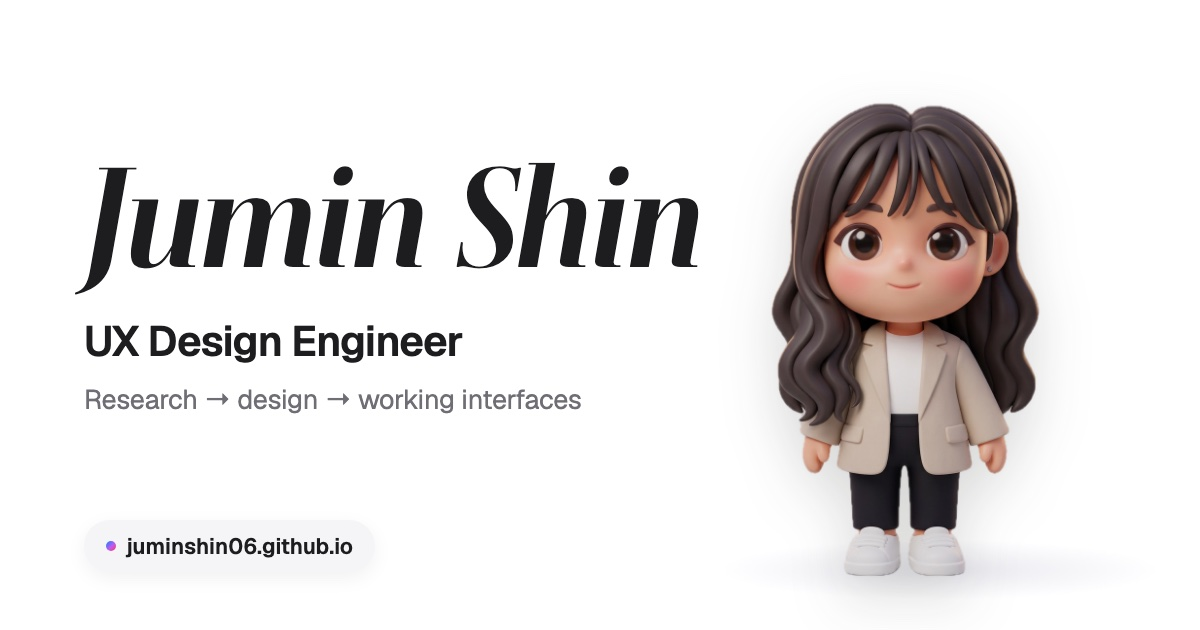
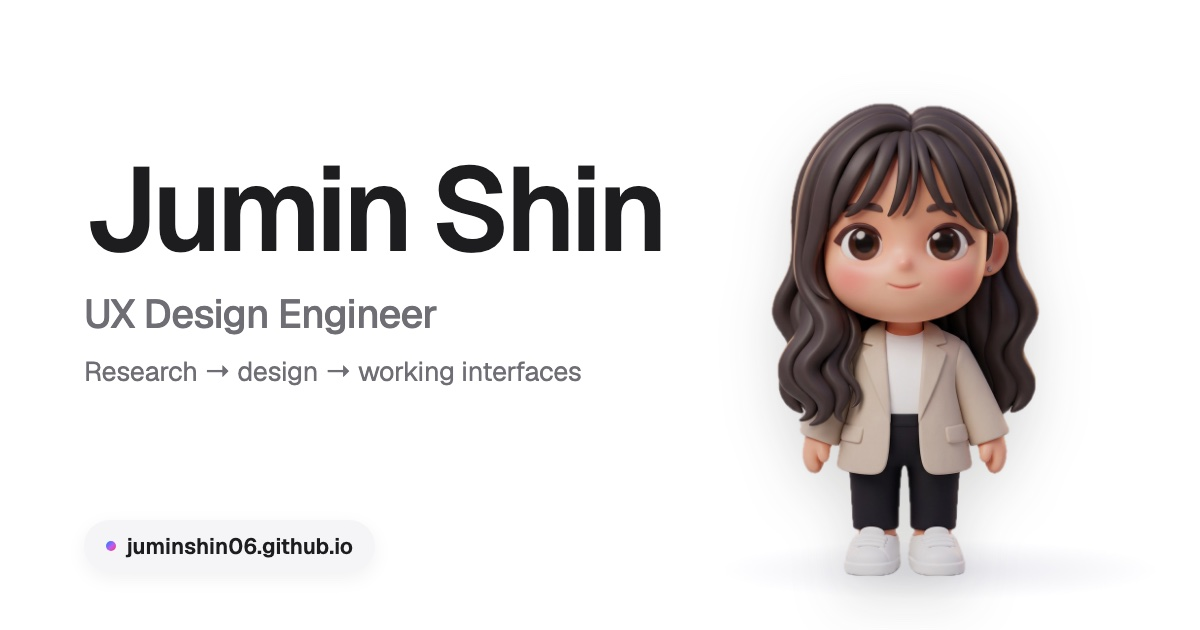
style: hero name in the system display sans
The name now uses SF Pro Display / Geist in semibold, not italic, scaling
from 44px on phones to 88px, so it shares one voice with the rest of the
page and leaves the prompt as the focus. The share card matches, and the
unused Boska font is removed.

Changed region(s): [[0.0617, 0.2413, 0.5858, 0.6635]]

diff --git a/src/portfolio/Portfolio.module.css b/src/portfolio/Portfolio.module.css
@@ -2209,11 +2209,10 @@
 .introLinks { margin-top: 28px; }
 @media (width <= 600px) { .introLinks { margin-top: 24px; } }
 
-/* Hero name: Boska Bold Italic in near-black, so the prompt's gradient ring is the one accent. */
-.introContent h1 { font-family: 'Boska', 'Times New Roman', serif; font-style: italic; font-weight: 700; font-size: 112px; line-height: 1; letter-spacing: -0.015em; color: #1d1d1f; padding: 0 0.06em; }
-.introContent .introRole { margin-top: 22px; }
-@media (width <= 900px) { .introContent h1 { font-size: 84px; } .introContent .introRole { margin-top: 18px; } }
-@media (width <= 600px) { .introContent h1 { font-size: 60px; } .introContent .introRole { margin-top: 14px; } }
+/* Hero name: the system display sans in semibold, tightly tracked and sized so the prompt below
+   stays the focus; it scales smoothly from phones to large screens. */
+.introContent h1 { font-family: -apple-system, 'SF Pro Display', BlinkMacSystemFont, 'Geist', 'Helvetica Neue', Arial, sans-serif; font-style: normal; font-weight: 600; font-size: clamp(44px, calc(4.2vw + 26px), 88px); line-height: 1.02; letter-spacing: -0.035em; color: #1d1d1f; padding: 0; }
+.introContent .introRole { margin-top: 14px; font-size: clamp(19px, 1.7vw, 24px); font-weight: 500; letter-spacing: -0.015em; color: #6e6e73; }
 
 /* Corner chat button: her face and "Ask about Jumin" as one quiet control, no extra glow or sparkle.
    It shows only while the hero prompt is off screen and the chat is closed. */

diff --git a/index.html b/index.html
@@ -9,7 +9,6 @@
     <meta name="description" content="Jumin Shin is a UX/UI designer and researcher connecting user research, interaction design and prototyping." />
     <meta name="theme-color" content="#f6f6f3" />
     <link rel="preload" href="/fonts/Geist-Latin-Variable.woff2" as="font" type="font/woff2" crossorigin />
-    <link rel="preload" href="/fonts/Boska-BoldItalic.woff2" as="font" type="font/woff2" crossorigin />
     <title>UX/UI Designer &amp; Researcher | Jumin Shin</title>
     <!--page-metadata-->
   </head>

diff --git a/src/index.css b/src/index.css
@@ -5,13 +5,6 @@
   font-weight: 100 900;
   font-display: swap;
 }
-@font-face {
-  font-family: 'Boska';
-  src: url('/fonts/Boska-BoldItalic.woff2') format('woff2');
-  font-style: italic;
-  font-weight: 700;
-  font-display: swap;
-}
 :root {
   /* System-first like iOS: SF on Apple devices, with Geist as the self-hosted fallback elsewhere. */
   font-family: -apple-system, BlinkMacSystemFont, 'SF Pro Text', 'SF Pro Display', 'Geist', 'Helvetica Neue', Arial, sans-serif;

diff --git a/public/fonts/README.md b/public/fonts/README.md
@@ -17,16 +17,3 @@ The Google Fonts CSS was requested with a modern Chrome user agent, which
 returns WOFF2 and declares `font-weight: 400 700` for the Latin subset.
 Use `/fonts/Geist-Latin-Variable.woff2` with normal style and weights 400-700.
 
-# Boska
-
-`Boska-BoldItalic.woff2` is the unmodified Boska Bold Italic (weight 700,
-italic) WOFF2 served by Fontshare. It is used only for the hero name.
-
-- CSS source: https://api.fontshare.com/v2/css?f[]=boska@701&display=swap
-- Binary source: https://cdn.fontshare.com/wf/FOVWXOQZ7BLFYDLZRNSQ77YOMKH3VQ3Z/QLVQDC6JEMEBTL6WHQ2WB2GGK6NCRURV/IXMM5CYHRZWXGCBFQ5BG5JVOP2J2QR6Q.woff2
-- Designer: Indian Type Foundry, via https://www.fontshare.com/fonts/boska
-- Retrieved: 2026-10-22
-- License: ITF Free Font License (free for personal and commercial use, including web embedding): https://www.fontshare.com/licenses/itf-ffl
[1 lines of base64/hex data omitted]
-
-Use `/fonts/Boska-BoldItalic.woff2` as `font-family: 'Boska'` with weight 700 and italic style.
